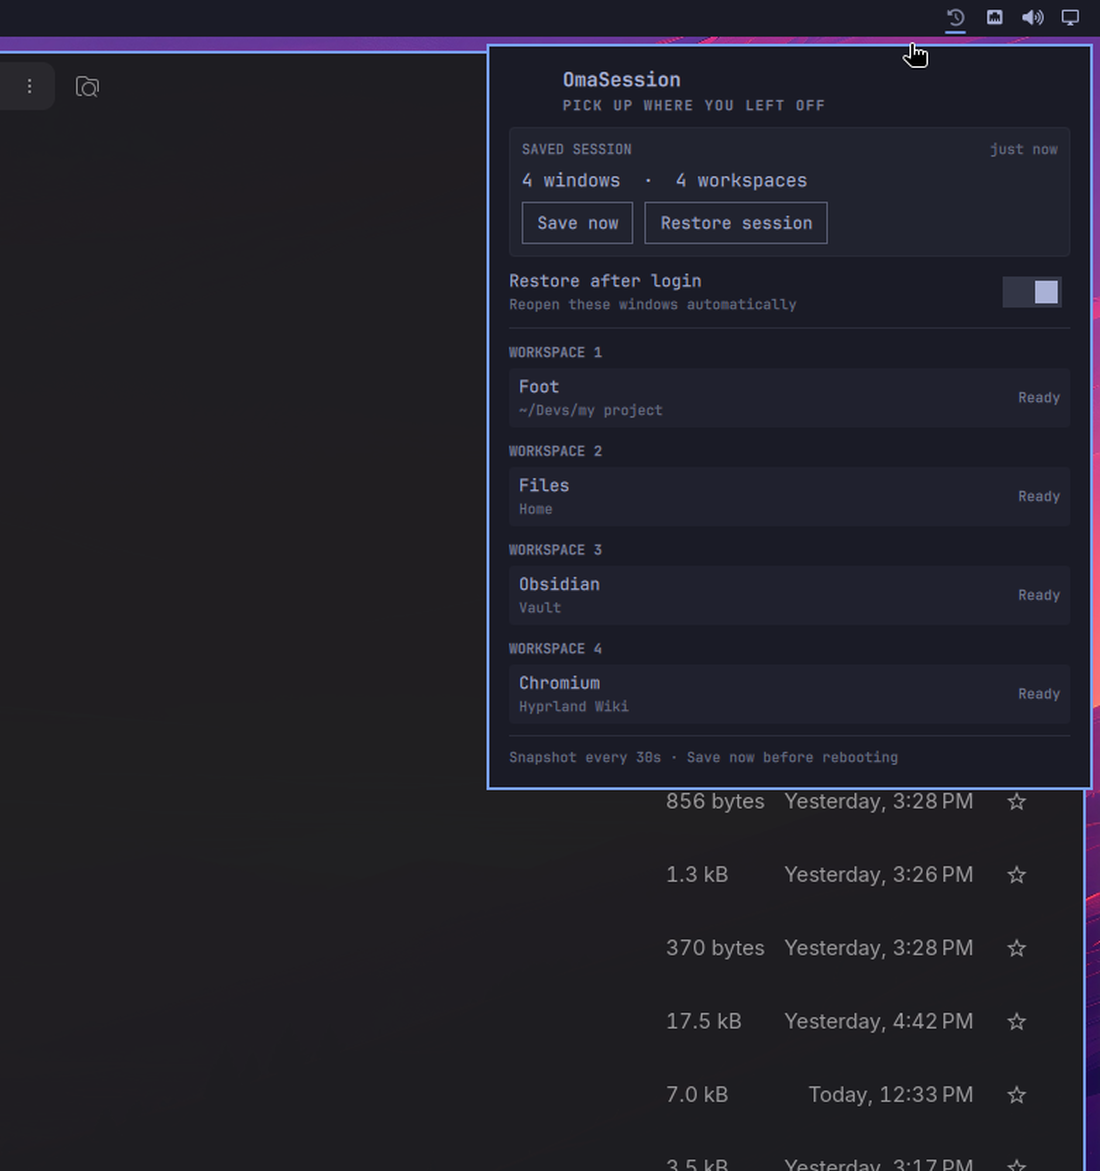
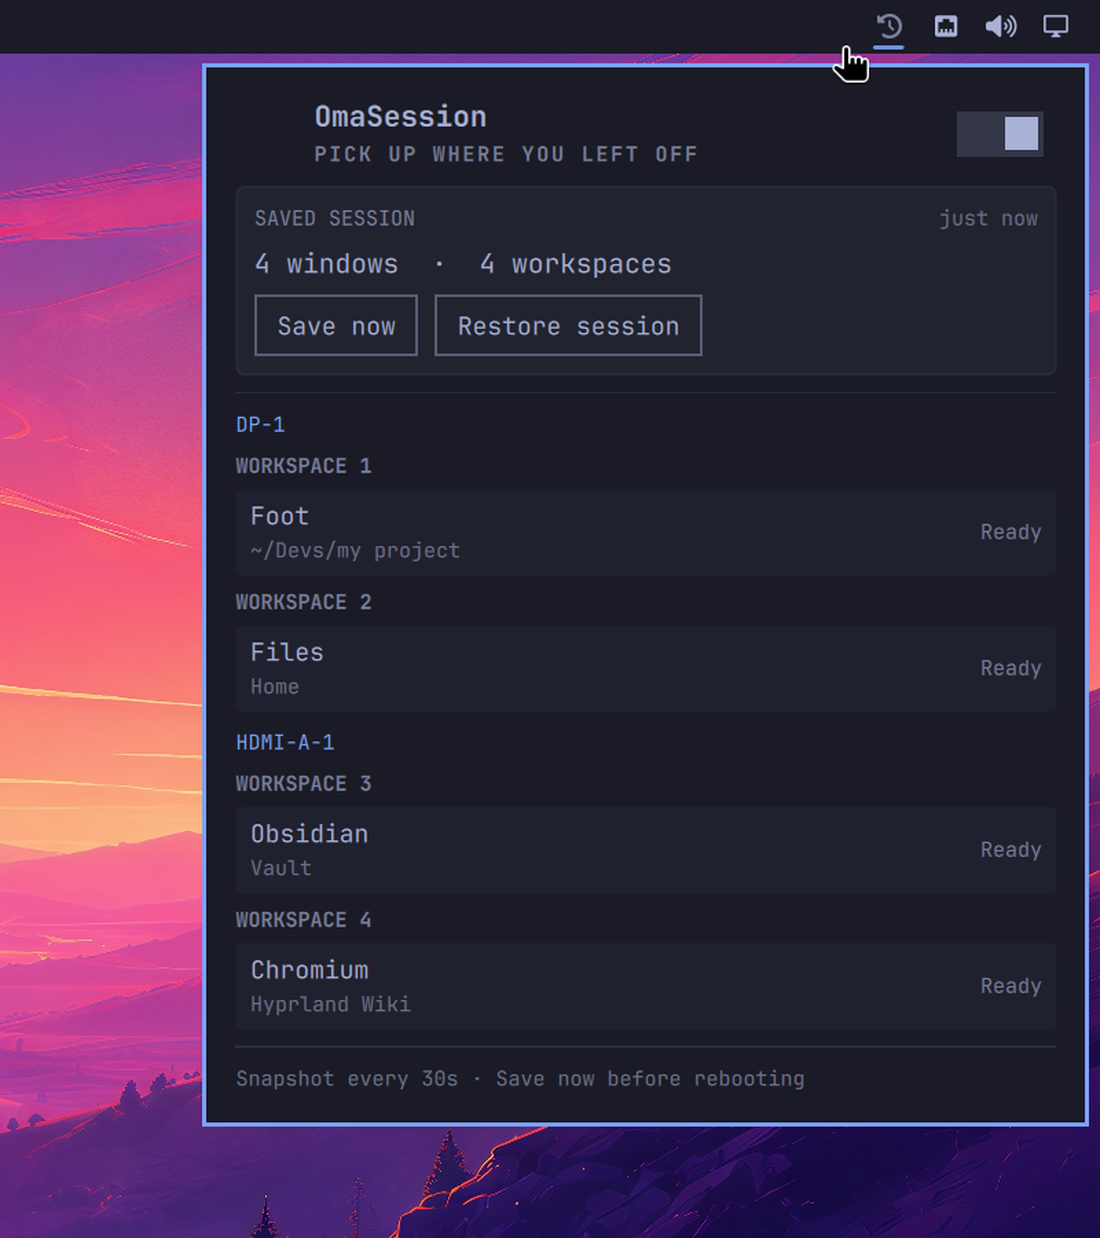
Panel: the switch belongs on the title line, and a workspace belongs to a monitor
Two changes to the panel, both about what the layout says rather than how it
looks.

The restore-on-login switch moved to the header row, next to the name. It is the
state of the whole plugin -- whether a reboot right now costs you anything --
not one list item among others, and putting it in the list said otherwise. Its
hover text states what happens instead of naming the option: "Reboot now and
these windows come back", or "Reboot now and nothing reopens" when off. The
question a user actually has is about the reboot, not about a setting's name.

Windows now group monitor -> workspace -> apps. "Workspace 2" on the middle
screen and "Workspace 2" on the right are different places, and anyone with two
displays navigates by screen first. The monitor level hides itself when there is
only one, where it would be a constant line repeating the obvious.

That needed the monitor NAME, which was not being saved: the sidecar recorded
`client.monitor`, an index into the monitor list at that instant. Unplugging a
display renumbers the rest, so a session saved with indices describes an
arrangement that no longer exists. session-save.sh now joins against
`hyprctl monitors` and stores the name, which is both what the compositor
accepts back and what a person reads. Sidecars written before this fall back to
"Monitor <id>", which is honest about what is known.

One self-inflicted bug worth recording, the third of this shape: PanelToolTip is
[…]

diff --git a/Panel.qml b/Panel.qml
@@ -42,10 +42,10 @@ Panel {
       "windows": 4, "workspaces": 4, "agoSec": 42, "refused": false, "detail": "",
       "daemonActive": false, "intervalSec": 30, "restoreOnLogin": true,
       "captured": [
-        { "ws": 1, "cls": "foot",                 "app": "Foot",     "title": "~/Devs/my project",  "resolvable": true },
-        { "ws": 2, "cls": "org.gnome.Nautilus",   "app": "Files",    "title": "Home",               "resolvable": true },
-        { "ws": 3, "cls": "md.obsidian.Obsidian", "app": "Obsidian", "title": "Vault",              "resolvable": true },
-        { "ws": 4, "cls": "chromium",             "app": "Chromium", "title": "Hyprland Wiki",      "resolvable": true }
+        { "ws": 1, "mon": "DP-1", "cls": "foot",                 "app": "Foot",     "title": "~/Devs/my project",  "resolvable": true },
+        { "ws": 2, "mon": "DP-1", "cls": "org.gnome.Nautilus",   "app": "Files",    "title": "Home",               "resolvable": true },
+        { "ws": 3, "mon": "HDMI-A-1", "cls": "md.obsidian.Obsidian", "app": "Obsidian", "title": "Vault",          "resolvable": true },
+        { "ws": 4, "mon": "HDMI-A-1", "cls": "chromium",             "app": "Chromium", "title": "Hyprland Wiki",  "resolvable": true }
       ]
     },
     "refused": {
@@ -53,17 +53,17 @@ Panel {
       "detail": "partial save blocked: 1 window written, 4 on screen",
       "daemonActive": false, "intervalSec": 30, "restoreOnLogin": true,
       "captured": [
-        { "ws": 1, "cls": "foot",                 "app": "Foot",     "title": "~/Devs/my project",  "resolvable": true },
-        { "ws": 2, "cls": "org.gnome.Nautilus",   "app": "Files",    "title": "Home",               "resolvable": true },
-        { "ws": 3, "cls": "md.obsidian.Obsidian", "app": "Obsidian", "title": "Vault",              "resolvable": true },
-        { "ws": 4, "cls": "some.unknown.App",     "app": "App",      "title": "no desktop entry",   "resolvable": false }
+        { "ws": 1, "mon": "DP-1", "cls": "foot",                 "app": "Foot",     "title": "~/Devs/my project",  "resolvable": true },
+        { "ws": 2, "mon": "DP-1", "cls": "org.gnome.Nautilus",   "app": "Files",    "title": "Home",               "resolvable": true },
+        { "ws": 3, "mon": "HDMI-A-1", "cls": "md.obsidian.Obsidian", "app": "Obsidian", "title": "Vault",          "resolvable": true },
+        { "ws": 4, "mon": "HDMI-A-1", "cls": "some.unknown.App",     "app": "App",      "title": "no desktop entry", "resolvable": false }
       ]
     },
     "contested": {
       "windows": 1, "workspaces": 1, "agoSec": 8, "refused": false, "detail": "",
       "daemonActive": true, "intervalSec": 30, "restoreOnLogin": false,
       "captured": [
-        { "ws": 1, "cls": "foot", "app": "Foot", "title": "~/Devs/omasession", "resolvable": true }
+        { "ws": 1, "mon": "DP-1", "cls": "foot", "app": "Foot", "title": "~/Devs/omasession", "resolvable": true }
       ]
     }
   })
@@ -74,23 +74,35 @@ Panel {
   readonly property int intervalSec:   status ? status.intervalSec : 30
   readonly property bool restoreOnLogin: status ? status.restoreOnLogin : true
 
-  // Agrupar por workspace porque é assim que a sessão é navegada -- DESIGN.md §4
-  // chama isso de "a forma da sessão". Uma lista plana obriga o leitor a
-  // reconstruir o agrupamento de cabeça.
-  readonly property var byWorkspace: {
-    var groups = {}
-    var list = captured
-    for (var i = 0; i < list.length; i++) {
-      var ws = list[i].ws
-      if (!groups[ws]) groups[ws] = []
-      groups[ws].push(list[i])
+  // Monitor -> workspace -> janelas. Um workspace só faz sentido junto do
+  // monitor em que estava: "workspace 2" na tela do meio e "workspace 2" na da
+  // direita são lugares diferentes, e quem tem duas telas navega pensando na
+  // tela primeiro. Com um monitor só o nível some, porque aí ele não informa
+  // nada e só empurra a lista para baixo.
+  readonly property var byMonitor: {
+    var mons = {}
+    var order = []
+    for (var i = 0; i < captured.length; i++) {
+      var w = captured[i]
+      var m = w.mon || "?"
+      if (!mons[m]) { mons[m] = {}; order.push(m) }
+      if (!mons[m][w.ws]) mons[m][w.ws] = []
+      mons[m][w.ws].push(w)
     }
     var out = []
-    var keys = Object.keys(groups).sort(function(a, b) { return a - b })
-    for (var k = 0; k < keys.length; k++)
-      out.push({ ws: parseInt(keys[k]), items: groups[keys[k]] })
+    for (var k = 0; k < order.length; k++) {
+      var name = order[k]
+      var wss = Object.keys(mons[name]).sort(function(a, b) { return a - b })
+      var groups = []
+      for (var j = 0; j < wss.length; j++)
+        groups.push({ ws: parseInt(wss[j]), items: mons[name][wss[j]] })
+      out.push({ mon: name, workspaces: groups })
+    }
     return out
   }
+
+  readonly property bool multiMonitor: byMonitor.length > 1
+
 
   readonly property int unresolvable: {
     var n = 0
@@ -155,24 +167,54 @@ Panel {
         width: parent.width
         spacing: Style.spacing.lg
 
-        PanelHero {
+        Item {
           width: parent.width
-          title: "OmaSession"
-          meta: "pick up where you left off"
-          foreground: root.fg
-          // O Component precisa de um Item com tamanho: um OpticalGlyph solto
-          // dentro do Loader do PanelHero fica sem geometria e nao aparece --
-          // a mesma armadilha do implicitWidth no BarIconButton.
-          iconComponent: Component {
-            Item {
-              implicitWidth: Style.font.display
-              implicitHeight: Style.font.display
-              OpticalGlyph {
-                anchors.centerIn: parent
-                text: ""
-                color: root.fg
-                fontSize: Style.font.display
+          height: hero.implicitHeight
+
+          PanelHero {
+            id: hero
+            anchors.left: parent.left
+            anchors.right: loginToggle.left
+            anchors.rightMargin: Style.space(8)
+            title: "OmaSession"
+            meta: "pick up where you left off"
+            foreground: root.fg
+            iconComponent: Component {
+              Item {
+                implicitWidth: Style.font.display
+                implicitHeight: Style.font.display
+                OpticalGlyph {
+                  anchors.centerIn: parent
+                  text: ""
+                  color: root.fg
+                  fontSize: Style.font.display
+                }
               }
+            }
+          }
+
+          // O interruptor mora aqui, na linha do nome, porque é o estado do
+          // plugin inteiro -- não mais um item de lista entre outros. O texto
+          // aparece no hover e diz o que ACONTECE, não o que a opção se chama:
+          // a pergunta do usuário é "e se eu reiniciar agora?".
+          ToggleSwitch {
+            id: loginToggle
+            anchors.right: parent.right
+            anchors.verticalCenter: parent.verticalCenter
+            checked: root.restoreOnLogin
+            onToggled: console.log("mock: escreveria restoreOnLogin em config.json")
+
+            // PanelToolTip é um ToolTip (Popup): não aceita anchors, e se
+            // posiciona sozinho quando é filho do item a que pertence. Tentar
+            // ancorá-lo derruba o widget inteiro com "Cannot assign to
+            // non-existent property verticalCenter" -- e derruba junto o ícone
+            // da barra, porque é o mesmo arquivo.
+            PanelToolTip {
+              visible: loginToggle.containsMouse
+              fontFamily: Style.font.family
+              text: root.restoreOnLogin
+                    ? "Reboot now and these windows come back"
+                    : "Reboot now and nothing reopens"
             }
           }
         }
@@ -288,105 +330,85 @@ Panel {
           }
         }
 
-        // ── restore ao login ─────────────────────────────────────────────
-        Item {
-          width: parent.width
-          height: Math.max(loginCol.implicitHeight, loginToggle.height)
-
-          Column {
-            id: loginCol
-            anchors.left: parent.left
-            anchors.right: loginToggle.left
-            anchors.rightMargin: Style.space(8)
-            anchors.verticalCenter: parent.verticalCenter
-            spacing: Style.spacing.xxs
-            Text {
-              text: "Restore after login"
-              color: root.fg
-              font.family: Style.font.family
-              font.pixelSize: Style.font.body
-            }
-            Text {
-              width: parent.width
-              wrapMode: Text.WordWrap
-              text: "Reopen these windows automatically"
-              color: root.dim
-              font.family: Style.font.family
-              font.pixelSize: Style.font.caption
-            }
-          }
-
-          ToggleSwitch {
-            id: loginToggle
-            anchors.right: parent.right
-            anchors.verticalCenter: parent.verticalCenter
-            checked: root.restoreOnLogin
-            onToggled: console.log("mock: escreveria restoreOnLogin em config.json")
-          }
-        }
-
         PanelSeparator { width: parent.width }
 
-        // ── as janelas, agrupadas por workspace ──────────────────────────
+        // ── as janelas: monitor -> workspace -> apps ─────────────────────
         Repeater {
-          model: root.byWorkspace
+          model: root.byMonitor
 
           Column {
             width: column.width
             spacing: Style.spacing.sm
 
-            PanelSectionHeader {
-              width: parent.width
-              text: "WORKSPACE " + modelData.ws
+            // O nível do monitor só aparece quando há mais de um. Numa tela só
+            // ele seria uma linha constante repetindo o óbvio.
+            Text {
+              visible: root.multiMonitor
+              text: modelData.mon
+              color: Color.accent
+              font.family: Style.font.family
+              font.pixelSize: Style.font.caption
             }
 
             Repeater {
-              model: modelData.items
+              model: modelData.workspaces
 
-              Rectangle {
-                width: parent.width
-                height: itemCol.implicitHeight + Style.space(10)
-                radius: Style.space(3)
-                color: Qt.rgba(root.fg.r, root.fg.g, root.fg.b, 0.04)
+              Column {
+                width: column.width
+                spacing: Style.spacing.sm
 
-                Column {
-                  id: itemCol
-                  anchors.left: parent.left
-                  anchors.right: statusText.left
-                  anchors.margins: Style.space(7)
-                  anchors.rightMargin: Style.space(8)
-                  anchors.verticalCenter: parent.verticalCenter
-                  spacing: Style.spacing.xxs
-
-                  Text {
-                    text: modelData.app
-                    color: root.fg
-                    font.family: Style.font.family
-                    font.pixelSize: Style.font.body
-                  }
-                  Text {
-                    width: parent.width
-                    elide: Text.ElideRight
-                    text: modelData.title
-                    color: root.dim
-                    font.family: Style.font.family
-                    font.pixelSize: Style.font.caption
-                  }
+                PanelSectionHeader {
+                  width: parent.width
+                  text: "WORKSPACE " + modelData.ws
                 }
 
-                // O OmaResume escreve "Ready" para tudo. Nós só podemos dizer
-                // isso do que o resolvedor encontra num .desktop -- e dizer
-                // "No command" do resto é o ponto: uma janela que não vai
-                // voltar tem de aparecer antes do reboot, não depois.
-                Text {
-                  id: statusText
-                  anchors.right: parent.right
-                  anchors.rightMargin: Style.space(7)
-                  anchors.verticalCenter: parent.verticalCenter
-                  text: modelData.resolvable ? "Ready" : "No command"
-                  color: modelData.resolvable ? Qt.darker(root.fg, 1.4) : Color.urgent
-                  font.family: Style.font.family
-                  font.pixelSize: Style.font.caption
+                Repeater {
+                  model: modelData.items
+
+                  Rectangle {
+                    width: parent.width
+                    height: itemCol.implicitHeight + Style.space(10)
+                    radius: Style.space(3)
+                    color: Qt.rgba(root.fg.r, root.fg.g, root.fg.b, 0.04)
+
+                    Column {
+                      id: itemCol
+                      anchors.left: parent.left
+                      anchors.right: statusText.left
+                      anchors.margins: Style.space(7)
+                      anchors.rightMargin: Style.space(8)
+                      anchors.verticalCenter: parent.verticalCenter
+                      spacing: Style.spacing.xxs
+
+                      Text {
+                        text: modelData.app
+                        color: root.fg
+                        font.family: Style.font.family
+                        font.pixelSize: Style.font.body
+                      }
+                      Text {
+                        width: parent.width
+                        elide: Text.ElideRight
+                        text: modelData.title
+                        color: root.dim
+                        font.family: Style.font.family
+                        font.pixelSize: Style.font.caption
+                      }
+                    }
+
+                    // "Ready" só onde o resolvedor achou um .desktop. Uma
+                    // janela que não volta tem de aparecer ANTES do reboot.
+                    Text {
+                      id: statusText
+                      anchors.right: parent.right
+                      anchors.rightMargin: Style.space(7)
+                      anchors.verticalCenter: parent.verticalCenter
+                      text: modelData.resolvable ? "Ready" : "No command"
+                      color: modelData.resolvable ? Qt.darker(root.fg, 1.4) : Color.urgent
+                      font.family: Style.font.family
+                      font.pixelSize: Style.font.caption
+                    }
+                  }
                 }
               }
             }

diff --git a/lib/captured.py b/lib/captured.py
@@ -54,6 +54,9 @@ def main() -> int:
         klass = w.get("class", "")
         out.append({
             "ws": w.get("workspace"),
+            # Nome quando existir; sessões gravadas antes disto só têm o índice,
+            # e "Monitor 0" é honesto sobre o que sabemos.
+            "mon": w.get("monitorName") or ("Monitor %s" % w.get("monitor", "?")),
             "cls": klass,
             "app": friendly(klass),
             "title": w.get("title", ""),
